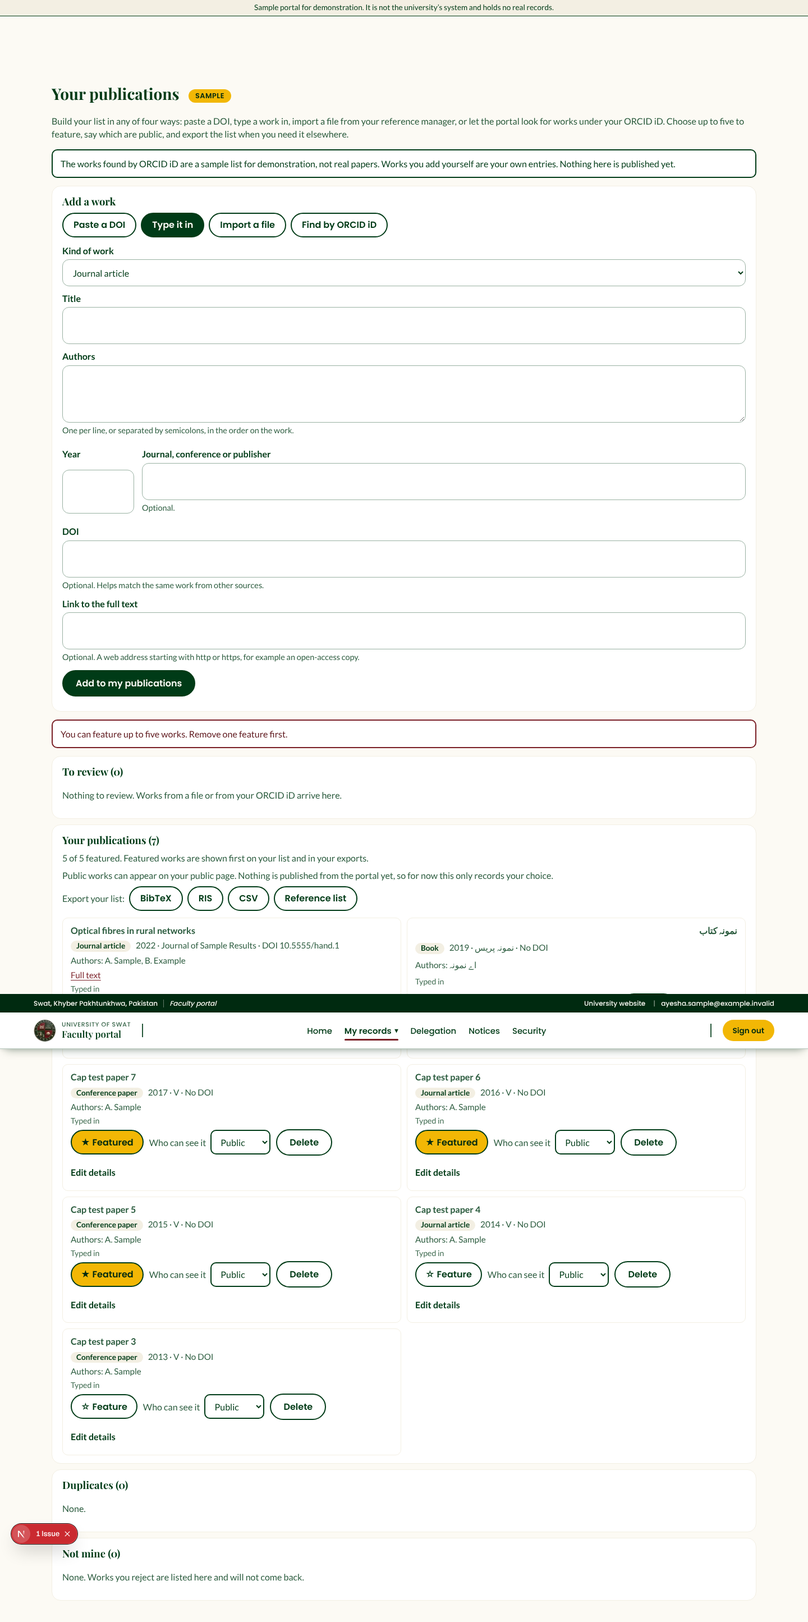
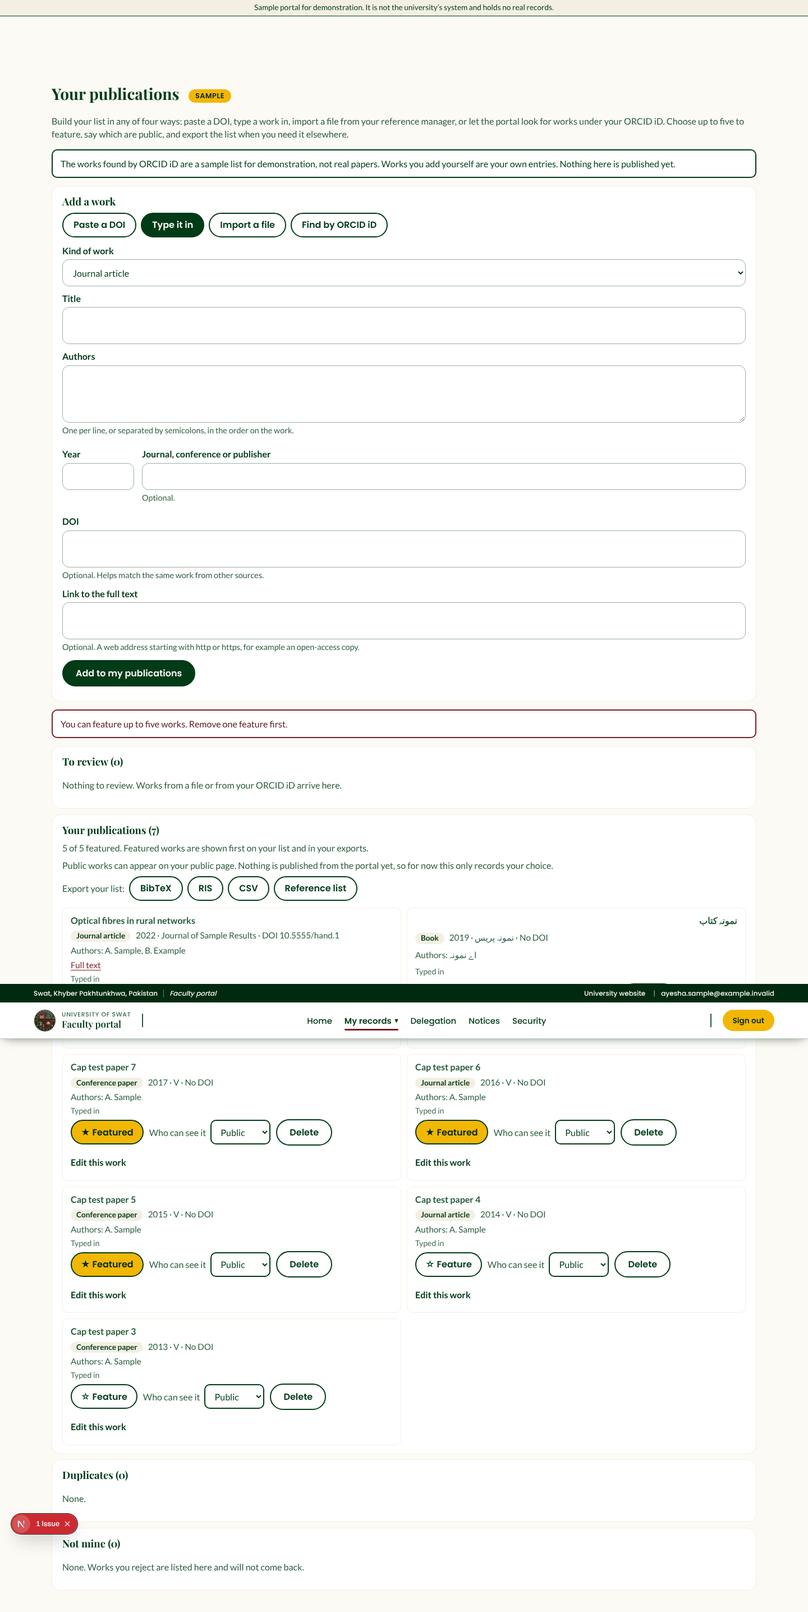
feat(portal): edit a claimed publication in full, not only its kind and link
Why: a wrong title or year on a work found by ORCID could not be fixed (it cannot be deleted), and a typo in an added work meant deleting and retyping. The edit runs the same checks as adding and refuses a change that would repeat another work.

Claude-Session: https://claude.ai/code/session_019ToxZ8xZCoZbNuSQkvHV4p

diff --git a/apps/web/src/modules/portal/publications/WorkCards.tsx b/apps/web/src/modules/portal/publications/WorkCards.tsx
@@ -4,10 +4,10 @@ import { useId, useState } from 'react'
 import { COPY } from '../copy'
 import { removeWork, setWorkFeatured, setWorkPublic, updateWorkDetails } from './actions'
 import type { PubResult } from './service'
-import { WORK_TYPES, type StoredWork, type WorkType } from './types'
+import { WORK_TYPES, type StoredWork } from './types'
 
 const C = COPY.publications
-type Run = (job: () => Promise<PubResult>, ok: string) => void
+type Run = (job: () => Promise<PubResult>, ok: string, onResult?: (r: PubResult) => void) => void
 
 /** Title, kind, year, venue, DOI and authors of a work. All text is rendered as plain text; the link only if it is http(s). */
 export function WorkLine({ w, showOrigin }: { w: StoredWork; showOrigin?: boolean }) {
@@ -29,8 +29,23 @@ export function WorkLine({ w, showOrigin }: { w: StoredWork; showOrigin?: boolea
 /** A claimed work: feature it, choose who sees it, change its kind or link, delete it if it was not found by a harvest. */
 export function ClaimedCard({ w, busy, run, forId }: { w: StoredWork; busy: boolean; run: Run; forId?: string }) {
   const uid = useId()
-  const [kind, setKind] = useState<WorkType>(w.workType)
-  const [url, setUrl] = useState(w.url)
+  const initial = () => ({ workType: w.workType as string, title: w.title, authors: w.authors.join('; '), year: String(w.year), venue: w.venue, doi: w.doi, url: w.url })
+  const [f, setF] = useState(initial)
+  const [bad, setBad] = useState<string[]>([])
+  const [note, setNote] = useState<{ ok: boolean; text: string } | null>(null)
+  const set = (k: keyof ReturnType<typeof initial>, v: string) => setF((x) => ({ ...x, [k]: v }))
+  const field = (k: keyof ReturnType<typeof initial>, label: string, extra: { hint?: string; dir?: 'auto'; type?: string; inputMode?: 'numeric' } = {}) => {
+    const id = `${uid}-${k}`
+    const e = bad.includes(k)
+    return (
+      <div className="portal-field">
+        <label htmlFor={id}>{label}</label>
+        <input id={id} type={extra.type ?? 'text'} inputMode={extra.inputMode} dir={extra.dir} value={f[k]} onChange={(ev) => set(k, ev.target.value)} disabled={busy} autoComplete="off" aria-invalid={e ? true : undefined} aria-describedby={e ? `${id}-err` : undefined} />
+        {extra.hint ? <span className="hint">{extra.hint}</span> : null}
+        {e ? <span id={`${id}-err`} className="field-error">{C.fieldErrors[k]}</span> : null}
+      </div>
+    )
+  }
   return (
     <li className="pub-item" data-testid="pub-claimed" data-featured={w.featured ? 'yes' : 'no'}>
       <WorkLine w={w} showOrigin />
@@ -52,17 +67,29 @@ export function ClaimedCard({ w, busy, run, forId }: { w: StoredWork; busy: bool
       <details className="pub-edit">
         <summary>{C.edit}</summary>
         <div className="portal-field">
-          <label htmlFor={`${uid}-k`}>{C.typeLabel}</label>
-          <select id={`${uid}-k`} value={kind} onChange={(e) => setKind(e.target.value as WorkType)} disabled={busy}>
+          <label htmlFor={`${uid}-workType`}>{C.typeLabel}</label>
+          <select id={`${uid}-workType`} value={f.workType} onChange={(e) => set('workType', e.target.value)} disabled={busy}>
             {WORK_TYPES.map((t) => <option key={t} value={t}>{C.types[t]}</option>)}
           </select>
         </div>
+        {field('title', C.titleLabel, { dir: 'auto' })}
         <div className="portal-field">
-          <label htmlFor={`${uid}-u`}>{C.urlLabel}</label>
-          <input id={`${uid}-u`} type="url" value={url} onChange={(e) => setUrl(e.target.value)} disabled={busy} autoComplete="off" />
-          <span className="hint">{C.urlHint}</span>
+          <label htmlFor={`${uid}-authors`}>{C.authorsLabel}</label>
+          <textarea id={`${uid}-authors`} dir="auto" value={f.authors} onChange={(e) => set('authors', e.target.value)} disabled={busy} aria-invalid={bad.includes('authors') ? true : undefined} />
+          <span className="hint">{C.authorsHint}</span>
+          {bad.includes('authors') ? <span className="field-error">{C.fieldErrors.authors}</span> : null}
         </div>
-        <div className="portal-actions"><button type="button" className="portal-btn secondary" disabled={busy} onClick={() => run(() => updateWorkDetails(w.id, { workType: kind, url }, forId), C.done.updated)}>{C.saveDetails}</button></div>
+        <div className="pub-two">
+          {field('year', C.yearLabel, { inputMode: 'numeric' })}
+          {field('venue', C.venueLabel, { dir: 'auto' })}
+        </div>
+        {field('doi', C.doiOptionalLabel)}
+        {field('url', C.urlLabel, { type: 'url', hint: C.urlHint })}
+        <div className="portal-actions">
+          <button type="button" className="portal-btn secondary" disabled={busy} onClick={() => { setBad([]); setNote(null); run(() => updateWorkDetails(w.id, f, forId), C.done.updated, (r) => { if (r.ok) setNote({ ok: true, text: C.done.updated }); else { setBad(r.fields ?? (r.field ? [r.field] : [])); setNote({ ok: false, text: C.errors[r.error] ?? C.errors.generic }) } }) }}>{C.saveDetails}</button>
+          <button type="button" className="portal-btn secondary" disabled={busy} onClick={() => { setF(initial()); setBad([]); setNote(null) }}>{C.resetDetails}</button>
+        </div>
+        {note ? <div className={note.ok ? 'portal-notice' : 'portal-error'} role={note.ok ? 'status' : 'alert'} data-testid="pub-edit-note">{note.text}</div> : null}
       </details>
     </li>
   )

diff --git a/apps/web/tests/unit/portal/publicationService.unit.spec.ts b/apps/web/tests/unit/portal/publicationService.unit.spec.ts
@@ -18,7 +18,7 @@ function setup(opts: { account?: { id: string; email: string } | null; orcid?: s
     reject: vi.fn(async () => true),
     markDuplicate: vi.fn(async () => true),
     addClaimed: vi.fn(async () => ({ ok: true as const, id: ID })),
-    updateDetails: vi.fn(async () => true),
+    updateWork: vi.fn(async () => 'ok' as const),
     setFeatured: vi.fn(async () => true),
     setPublic: vi.fn(async () => true),
     remove: vi.fn(async () => true),
@@ -108,7 +108,7 @@ describe('publication service: intake, details, featured, export (FP-19)', () =>
       reject: vi.fn(async () => true),
       markDuplicate: vi.fn(async () => true),
       addClaimed: vi.fn(async () => ({ ok: true as const, id: ID })),
-      updateDetails: vi.fn(async () => true),
+      updateWork: vi.fn(async () => 'ok' as const),
       setFeatured: vi.fn(async () => true),
       setPublic: vi.fn(async () => true),
       remove: vi.fn(async () => true),
@@ -123,7 +123,7 @@ describe('publication service: intake, details, featured, export (FP-19)', () =>
 
   it('without a session every new action stops before touching the store or the network', async () => {
     const t = make({ account: null })
-    const results = [await t.service.lookupDoi('10.5555/a'), await t.service.addWork(form(), 'manual'), await t.service.importFile('@a{k,}', 'a.bib'), await t.service.updateDetails(ID, { workType: 'book', url: '' }), await t.service.setFeatured(ID, true), await t.service.setPublic(ID, false), await t.service.remove(ID), await t.service.exportWorks('csv')]
+    const results = [await t.service.lookupDoi('10.5555/a'), await t.service.addWork(form(), 'manual'), await t.service.importFile('@a{k,}', 'a.bib'), await t.service.editWork(ID, form()), await t.service.setFeatured(ID, true), await t.service.setPublic(ID, false), await t.service.remove(ID), await t.service.exportWorks('csv')]
     for (const r of results) expect(r).toEqual({ ok: false, error: 'session' })
     expect(t.lookup).not.toHaveBeenCalled()
     for (const fn of Object.values(t.store)) expect(fn).not.toHaveBeenCalled()
@@ -172,16 +172,18 @@ describe('publication service: intake, details, featured, export (FP-19)', () =>
     expect(await t.service.importFile(many, 'x.bib')).toMatchObject({ ok: true, truncated: true, counts: { added: 500 } })
   })
 
-  it('details: type and link are checked; a bad link names the field', async () => {
+  it('edit: the same checks as adding, then a rewrite of the account\'s own claimed work', async () => {
     const t = make()
-    expect(await t.service.updateDetails(ID, { workType: 'book', url: ' https://example.invalid/b ' })).toEqual({ ok: true })
-    expect(t.store.updateDetails).toHaveBeenCalledWith('u1', ID, { workType: 'book', url: 'https://example.invalid/b' })
-    expect(await t.service.updateDetails(ID, { workType: 'book', url: '' })).toEqual({ ok: true })
-    expect(await t.service.updateDetails(ID, { workType: 'poster', url: '' })).toEqual({ ok: false, error: 'invalid', field: 'type' })
-    expect(await t.service.updateDetails(ID, { workType: 'book', url: 'javascript:alert(1)' })).toEqual({ ok: false, error: 'invalid', field: 'url' })
-    expect(await t.service.updateDetails('not-an-id', { workType: 'book', url: '' })).toEqual({ ok: false, error: 'invalid' })
-    expect(await t.service.updateDetails(ID, null)).toEqual({ ok: false, error: 'invalid' })
-    expect(await make({ store: { updateDetails: vi.fn(async () => false) } }).service.updateDetails(ID, { workType: 'book', url: '' })).toEqual({ ok: false, error: 'nothing' })
+    expect(await t.service.editWork(ID, form({ title: 'Corrected title', doi: 'https://doi.org/10.5555/X', url: ' https://example.invalid/b ' }))).toEqual({ ok: true })
+    expect(t.store.updateWork).toHaveBeenCalledWith('u1', ID, { title: 'Corrected title', year: 2021, venue: 'A journal', doi: '10.5555/x', authors: ['A. Person', 'B. Other'], workType: 'article', url: 'https://example.invalid/b' })
+    expect(await t.service.editWork(ID, form({ year: 'x', url: 'javascript:alert(1)' }))).toEqual({ ok: false, error: 'invalid', field: 'year', fields: ['year', 'url'] })
+    expect(await t.service.editWork('not-an-id', form())).toEqual({ ok: false, error: 'invalid' })
+    expect(await t.service.editWork(ID, null)).toMatchObject({ ok: false, error: 'invalid' })
+    expect(t.store.updateWork).toHaveBeenCalledTimes(1)
+  })
+  it('edit: reports a work that is not claimed or not yours, and a change that would repeat another work', async () => {
+    expect(await make({ store: { updateWork: vi.fn(async () => 'nothing' as const) } }).service.editWork(ID, form())).toEqual({ ok: false, error: 'nothing' })
+    expect(await make({ store: { updateWork: vi.fn(async () => 'exists' as const) } }).service.editWork(ID, form())).toEqual({ ok: false, error: 'exists' })
   })
 
   it('featured: needs a real id and a boolean; a refusal at five says limit, any other refusal says nothing', async () => {

diff --git a/apps/web/tests/int/identity/identity.int.spec.ts b/apps/web/tests/int/identity/identity.int.spec.ts
@@ -1343,17 +1343,37 @@ describe.skipIf(!DB)('publication intake (FP-19), PostgreSQL store', () => {
     const a = await account('own-a')
     const b = await account('own-b')
     const id = (await store().addClaimed(a, work(), 'manual')) as { ok: true; id: string }
-    expect(await store().updateDetails(b, id.id, { workType: 'report', url: '' })).toBe(false)
+    expect(await store().updateWork(b, id.id, work({ workType: 'report' }))).toBe('nothing')
     expect(await store().setFeatured(b, id.id, true)).toBe(false)
     expect(await store().setPublic(b, id.id, false)).toBe(false)
     expect(await store().remove(b, id.id)).toBe(false)
-    expect(await store().updateDetails(a, id.id, { workType: 'report', url: 'https://example.invalid/r' })).toBe(true)
-    expect((await store().list(a)).claimed[0]).toMatchObject({ workType: 'report', url: 'https://example.invalid/r' })
+    expect(await store().updateWork(a, id.id, work({ title: 'Corrected title', year: 2023, doi: '10.5555/corr', workType: 'report', url: 'https://example.invalid/r' }))).toBe('ok')
+    expect((await store().list(a)).claimed[0]).toMatchObject({ title: 'Corrected title', year: 2023, workType: 'report', url: 'https://example.invalid/r', origin: 'manual', status: 'claimed' })
     await store().addCandidates(a, [work({ title: 'Pending one', doi: '10.5555/p1' })], true)
     const pending = (await store().list(a)).pending[0]
     expect(await store().setFeatured(a, pending.id, true)).toBe(false)
     expect(await store().setPublic(a, pending.id, false)).toBe(false)
-    expect(await store().updateDetails(a, pending.id, { workType: 'book', url: '' })).toBe(false)
+    expect(await store().updateWork(a, pending.id, work({ title: 'Edited pending' }))).toBe('nothing')
+  })
+
+  it('an edit that would repeat another work of the account is refused and leaves the work unchanged; a work may be saved as itself', async () => {
+    const a = await account('edit-dup')
+    const one = ((await store().addClaimed(a, work({ title: 'First work', year: 2020, doi: '10.5555/e1x' }), 'manual')) as { ok: true; id: string }).id
+    const two = ((await store().addClaimed(a, work({ title: 'Second work', year: 2021 }), 'manual')) as { ok: true; id: string }).id
+    expect(await store().updateWork(a, two, work({ title: 'FIRST work!', year: 2020 }))).toBe('exists')
+    expect(await store().updateWork(a, two, work({ title: 'Second work', year: 2021, doi: 'https://doi.org/10.5555/E1X' }))).toBe('exists')
+    expect((await store().list(a)).claimed.find((w) => w.id === two)).toMatchObject({ title: 'Second work', year: 2021, doi: '' })
+    expect(await store().updateWork(a, one, work({ title: 'First work', year: 2020, doi: '10.5555/e1x', venue: 'New venue' }))).toBe('ok')
+    expect(await store().updateWork(a, one, work({ title: 'First work', year: 2020, doi: '', venue: 'New venue' }))).toBe('ok')
+  })
+
+  it('a harvested work can be corrected too, and keeps its origin and Sample label', async () => {
+    const a = await account('edit-harvest')
+    await store().addCandidates(a, [work({ title: 'Harvested typo', doi: '10.5555/ht' })], true)
+    const id = (await store().list(a)).pending[0].id
+    await store().claim(a, id)
+    expect(await store().updateWork(a, id, work({ title: 'Harvested corrected', doi: '10.5555/ht' }))).toBe('ok')
+    expect((await store().list(a)).claimed[0]).toMatchObject({ title: 'Harvested corrected', origin: 'harvest', sample: true })
   })
 
   it('at most five works can be featured; unfeaturing makes room; featured works list first', async () => {

diff --git a/apps/web/src/modules/portal/publications/service.ts b/apps/web/src/modules/portal/publications/service.ts
@@ -6,7 +6,7 @@ import type { ProfileStore } from '../profile/types'
 import type { DoiLookup } from './crossref'
 import { exportWorks, EXPORT_FORMATS, type ExportFile } from './exporters'
 import { parseImport } from './importers'
-import { isWorkId, isWorkType, normaliseDoi, normaliseUrl, validateCandidate, validateWorkInput, type WorkField } from './rules'
+import { isWorkId, normaliseDoi, validateCandidate, validateWorkInput, type WorkField } from './rules'
 import { MAX_FEATURED, type Candidate, type CandidateSource, type HarvestCounts, type PublicationStore } from './types'
 
 export type Account = { id: string; email: string }
@@ -97,16 +97,15 @@ export function createPublicationService(deps: {
       const { added, alreadyKnown } = await deps.store.addCandidates(account.id, valid, false, 'file')
       return { ok: true, counts: { added, alreadyKnown, invalid: parsed.records.length - valid.length }, ...(parsed.truncated ? { truncated: true } : {}) }
     },
-    async updateDetails(workId: unknown, details: unknown): Promise<PubResult> {
+    /** Changes a claimed work. The same checks as adding, so a correction cannot break what a new entry could not. */
+    async editWork(workId: unknown, input: unknown): Promise<PubResult> {
       const account = await deps.getAccount()
       if (!account) return { ok: false, error: 'session' }
-      if (!isWorkId(workId) || typeof details !== 'object' || details === null) return { ok: false, error: 'invalid' }
-      const d = details as Record<string, unknown>
-      if (!isWorkType(d.workType)) return { ok: false, error: 'invalid', field: 'type' }
-      const urlText = typeof d.url === 'string' ? d.url : ''
-      const url = urlText.trim() === '' ? '' : normaliseUrl(urlText)
-      if (url === null) return { ok: false, error: 'invalid', field: 'url' }
-      return (await deps.store.updateDetails(account.id, workId, { workType: d.workType, url })) ? { ok: true } : { ok: false, error: 'nothing' }
+      if (!isWorkId(workId)) return { ok: false, error: 'invalid' }
+      const v = validateWorkInput(input, now())
+      if (!v.ok) return { ok: false, error: 'invalid', field: v.field, fields: v.fields }
+      const r = await deps.store.updateWork(account.id, workId, v.work)
+      return r === 'ok' ? { ok: true } : { ok: false, error: r }
     },
     async setFeatured(workId: unknown, featured: unknown): Promise<PubResult> {
       const account = await deps.getAccount()

diff --git a/apps/web/src/modules/portal/copy.ts b/apps/web/src/modules/portal/copy.ts
@@ -296,8 +296,9 @@ export const COPY = {
     visibilityFor: (t: string) => `Who can see: ${t}`,
     visibility: { public: 'Public', private: 'Only me' },
     fullText: 'Full text',
-    edit: 'Edit details',
-    saveDetails: 'Save details',
+    edit: 'Edit this work',
+    saveDetails: 'Save changes',
+    resetDetails: 'Undo my edits',
     remove: 'Delete',
     removeFor: (t: string) => `Delete: ${t}`,
     confirmRemove: 'Delete this work from your list? You can add it again later.',
@@ -560,7 +561,7 @@ export const COPY = {
     edit: (name: string, section: string) => `Edit ${name}’s ${section.toLowerCase()}`,
     activityTitle: 'Recent activity on your behalf',
     activityEmpty: 'Nothing yet.',
-    actions: { view: 'opened the page', saveProfile: 'saved the draft', harvestWorks: 'looked for new works', claimWork: 'claimed a work', rejectWork: 'marked a work as not yours', duplicateWork: 'marked a work as a duplicate', lookupDoi: 'looked up a DOI', addWork: 'added a work', importWorks: 'imported a publication file', updateWorkDetails: 'changed the details of a work', setWorkFeatured: 'changed which works are featured', setWorkPublic: 'changed who can see a work', removeWork: 'deleted a work', exportWorks: 'exported the publication list', addCourse: 'added a course', removeCourse: 'removed a course' } as Record<string, string>,
+    actions: { view: 'opened the page', saveProfile: 'saved the draft', harvestWorks: 'looked for new works', claimWork: 'claimed a work', rejectWork: 'marked a work as not yours', duplicateWork: 'marked a work as a duplicate', lookupDoi: 'looked up a DOI', addWork: 'added a work', importWorks: 'imported a publication file', updateWorkDetails: 'edited a work', setWorkFeatured: 'changed which works are featured', setWorkPublic: 'changed who can see a work', removeWork: 'deleted a work', exportWorks: 'exported the publication list', addCourse: 'added a course', removeCourse: 'removed a course' } as Record<string, string>,
     activityLine: (actor: string, section: string, action: string) => `${actor} · ${section} · ${action}`,
     unknownActor: 'A former colleague',
     ended: 'Your access to this page has ended, so nothing was saved. Go back to your own page, or ask for access again.',

diff --git a/apps/web/src/modules/portal/publications/pgStore.ts b/apps/web/src/modules/portal/publications/pgStore.ts
@@ -59,9 +59,18 @@ export function createPgPublicationStore(pool: pg.Pool): PublicationStore {
     },
     claim: (accountId, workId) => decide(accountId, workId, 'claimed'),
     reject: (accountId, workId) => decide(accountId, workId, 'rejected'),
-    async updateDetails(accountId, workId, d) {
-      const r = await pool.query(`update "publication_candidate" set "workType" = $3, "url" = $4 where "id" = $2 and "userId" = $1 and "status" = 'claimed'`, [accountId, workId, d.workType, d.url])
-      return r.rowCount === 1
+    async updateWork(accountId, workId, w) {
+      try {
+        const r = await pool.query(
+          `update "publication_candidate" set "doiKey" = $3, "titleKey" = $4, "title" = $5, "year" = $6, "venue" = $7, "authors" = $8, "workType" = $9, "url" = $10
+           where "id" = $2 and "userId" = $1 and "status" = 'claimed'`,
+          [accountId, workId, w.doi ? normaliseDoi(w.doi) : null, titleKey(w.title, w.year), w.title, w.year, w.venue, JSON.stringify(w.authors), w.workType ?? 'article', w.url ?? ''],
+        )
+        return r.rowCount === 1 ? 'ok' : 'nothing'
+      } catch (e) {
+        if ((e as { code?: string }).code === '23505') return 'exists'
+        throw e
+      }
     },
     async setFeatured(accountId, workId, featured) {
       if (!featured) {

diff --git a/apps/web/src/modules/portal/publications/PublicationsView.tsx b/apps/web/src/modules/portal/publications/PublicationsView.tsx
@@ -13,7 +13,7 @@ import { EXPORT_FORMATS, type ExportFormat } from './exporters'
 
 const C = COPY.publications
 
-function Pending({ w, claimed, busy, run, forId }: { forId?: string; w: StoredWork; claimed: StoredWork[]; busy: boolean; run: (job: () => Promise<PubResult>, ok: string) => void }) {
+function Pending({ w, claimed, busy, run, forId }: { forId?: string; w: StoredWork; claimed: StoredWork[]; busy: boolean; run: (job: () => Promise<PubResult>, ok: string, onResult?: (r: PubResult) => void) => void }) {
   const id = useId()
   const [target, setTarget] = useState('')
   return (
@@ -53,11 +53,12 @@ export default function PublicationsView({ lists, hasOrcid, sampleMode, forId }:
   const [message, setMessage] = useState<{ kind: 'ok' | 'error'; text: string } | null>(null)
   const [pending, start] = useTransition()
 
-  function run(job: () => Promise<PubResult>, okText: string) {
+  function run(job: () => Promise<PubResult>, okText: string, onResult?: (r: PubResult) => void) {
     setMessage(null)
     start(async () => {
       try {
         const r = await job()
+        onResult?.(r)
         if (!r.ok) {
           setMessage({ kind: 'error', text: forId && r.error === 'session' ? COPY.delegation.ended : C.errors[r.error] ?? C.errors.generic })
           return

diff --git a/apps/web/src/modules/portal/publications/types.ts b/apps/web/src/modules/portal/publications/types.ts
@@ -36,8 +36,6 @@ export type StoredWork = Candidate & {
   isPublic: boolean
 }
 
-/** What the person may change on a claimed work. */
-export type WorkDetails = { workType: WorkType; url: string }
 
 export type WorkLists = { pending: StoredWork[]; claimed: StoredWork[]; rejected: StoredWork[]; duplicate: StoredWork[] }
 
@@ -61,8 +59,8 @@ export interface PublicationStore {
   reject(accountId: string, workId: string): Promise<boolean>
   /** `ofId` must be a claimed work of the same account. Returns false when nothing changed. */
   markDuplicate(accountId: string, workId: string, ofId: string): Promise<boolean>
-  /** Claimed works only. */
-  updateDetails(accountId: string, workId: string, details: WorkDetails): Promise<boolean>
+  /** Rewrites a claimed work (title, authors, year, venue, DOI, kind, link). `exists` when the new title/year or DOI matches another of this account's works. */
+  updateWork(accountId: string, workId: string, work: Candidate): Promise<'ok' | 'nothing' | 'exists'>
   /** Claimed works only. Turning it on fails (false) when five are already featured. */
   setFeatured(accountId: string, workId: string, featured: boolean): Promise<boolean>
   /** Claimed works only. */

diff --git a/apps/web/src/modules/portal/publications/actions.ts b/apps/web/src/modules/portal/publications/actions.ts
@@ -42,8 +42,8 @@ export async function addWork(input: unknown, via: unknown, forId?: unknown): Pr
 export async function importWorks(text: unknown, filename: unknown, forId?: unknown): Promise<PubResult> {
   return service('importWorks', forId).importFile(text, filename)
 }
-export async function updateWorkDetails(workId: unknown, details: unknown, forId?: unknown): Promise<PubResult> {
-  return service('updateWorkDetails', forId).updateDetails(workId, details)
+export async function updateWorkDetails(workId: unknown, input: unknown, forId?: unknown): Promise<PubResult> {
+  return service('updateWorkDetails', forId).editWork(workId, input)
 }
 export async function setWorkFeatured(workId: unknown, featured: unknown, forId?: unknown): Promise<PubResult> {
   return service('setWorkFeatured', forId).setFeatured(workId, featured)

diff --git a/docs/STATUS.md b/docs/STATUS.md
@@ -1148,3 +1148,5 @@ Branch `fp/publications-intake` (from `main`), portal lane only. Brief `docs/bri
 - Colour picker follow-up (2026-11-27): the owner tried a grey green and a tan yellow on production. The readability check refused them correctly (migration `20261127_021657_home_colours` confirmed applied on production), but the admin toast splits a message at ";" and cut the list in half. The message now has no semicolons and says what to change ("make the green darker", "make the yellow lighter"). Message only, no schema change.
 - **Owner decision 2026-11-27: no readability check on the landing-page colours.** Any colour publishes and shows. Removed the publish refusal and the site-side ignore (branch `feat/home-colours-no-check`). Accessibility cost, stated plainly: with custom colours the landing page may fail WCAG 2.2 AA contrast; the standard colours still pass. Only valid `#rrggbb` is accepted. Supersedes the "refused at publish" lines above and in `HOME-COLOURS-a`.
 
+
+- 2026-11-27 (owner: "yes"): a claimed work can now be edited in full (title, authors, year, journal, DOI, kind, link; harvested works too). Same checks as adding; a change that would repeat another work is refused. No migration. Local checks: tsc clean, eslint 0 errors, identity integration 231 pass, unit pass except the env-variable test, Chromium run 25 of 25 including a phone-width look at the edit form.
